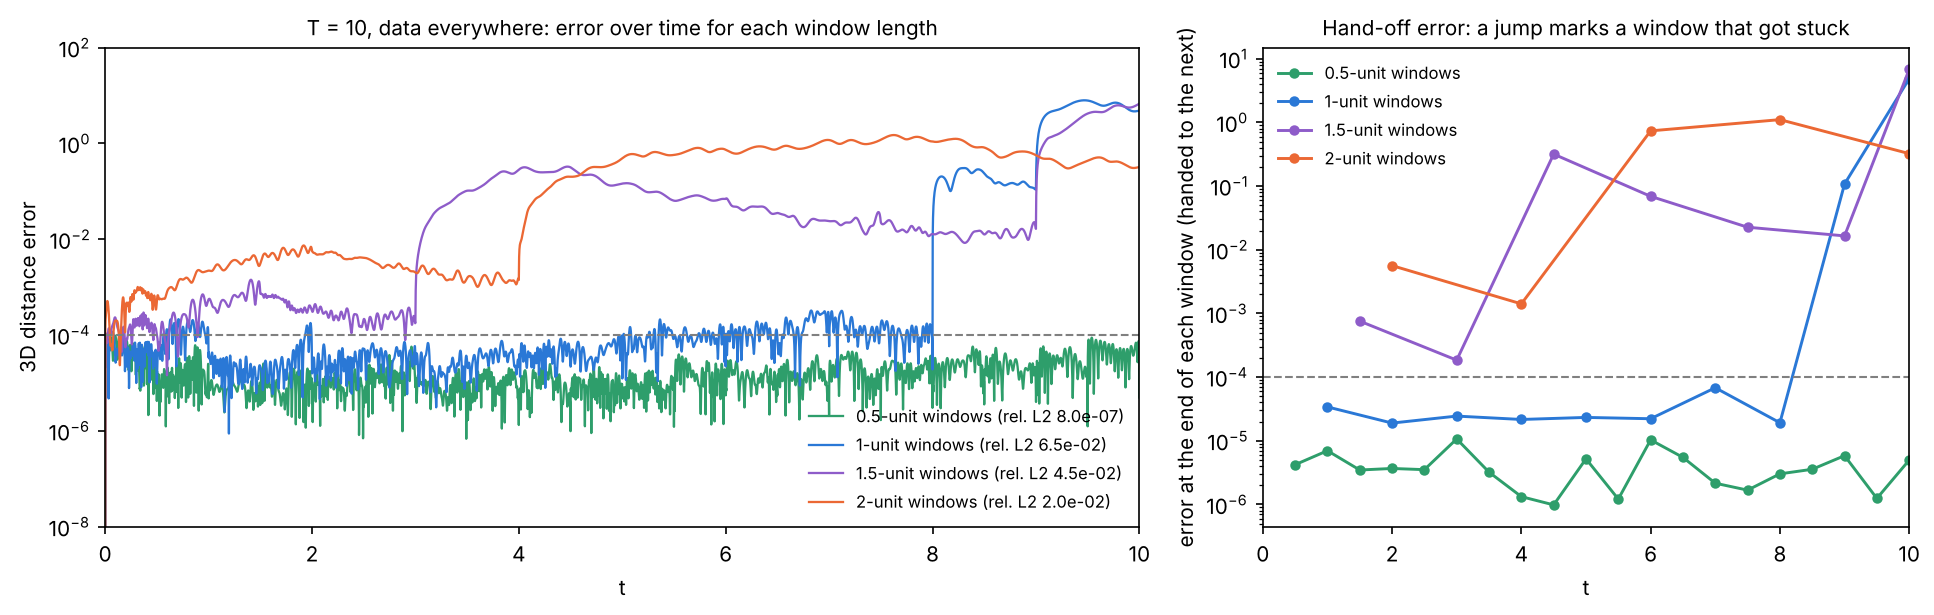
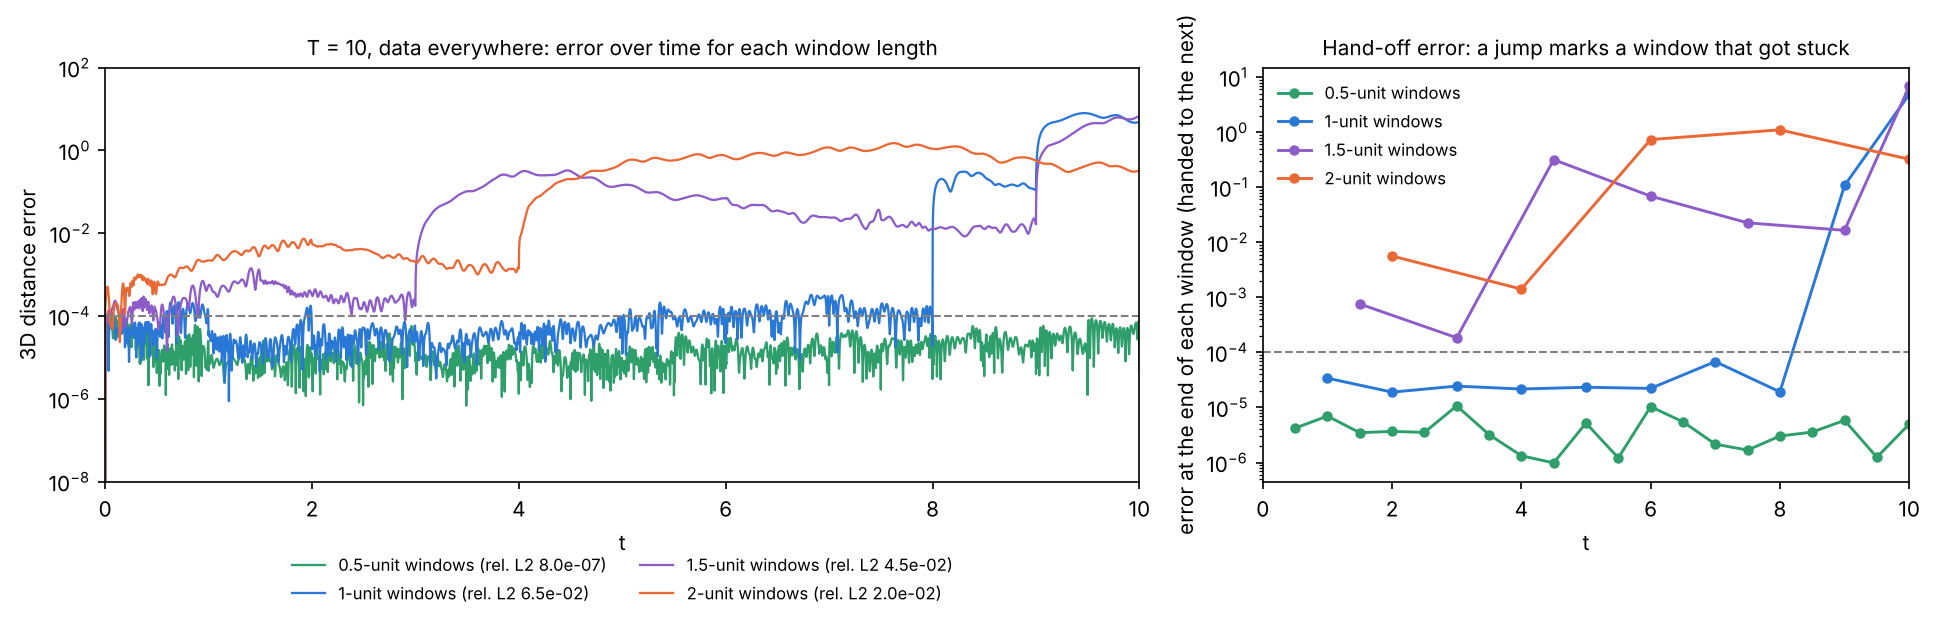
Add T = 20 window-length test (0.25 to 2-unit windows), graphs and write-up
Claude-Session: https://claude.ai/code/session_01RYXTDWCQ3fBuaHqY6rj5sE

diff --git a/scripts/horizon_visuals.py b/scripts/horizon_visuals.py
@@ -278,7 +278,7 @@ def plot_window_lengths(pred_dir, T=10, windows=(0.5, 1, 1.5, 2), save_dir=None,
                         save_name="window_lengths_T10.png", every=10):
     """Time-marching at one T with different window lengths: error over time,
     and the error handed from each window to the next."""
-    colors = {0.5: "#2e9e6b", 1: "#2a78d6", 1.5: "#8e5cc9", 2: "#eb6834"}
+    colors = {0.25: "#c23b8a", 0.5: "#2e9e6b", 1: "#2a78d6", 1.5: "#8e5cc9", 2: "#eb6834"}
     fig, (ax1, ax2) = plt.subplots(1, 2, figsize=(13, 4.2), gridspec_kw={"width_ratios": [1.6, 1]})
     for w in windows:
         f = os.path.join(pred_dir, f"pred_tm_T{T:g}_w{w:g}_s99.csv")
@@ -289,7 +289,9 @@ def plot_window_lengths(pred_dir, T=10, windows=(0.5, 1, 1.5, 2), save_dir=None,
         rel = np.linalg.norm(d.err_3d) / np.linalg.norm(ref)
         c = colors.get(w, None)
         dd = d.iloc[::every]
-        ax1.plot(dd.t, dd.err_3d + 1e-12, color=c, lw=1.1, label=f"{w:g}-unit windows (rel. L2 {rel:.1e})")
+        end = d.t.iloc[-1]
+        tag = "" if end >= T - 1e-9 else f", stopped at t = {end:g}"
+        ax1.plot(dd.t, dd.err_3d + 1e-12, color=c, lw=1.1, label=f"{w:g}-unit windows (rel. L2 {rel:.1e}{tag})")
         ends = d.groupby("window").tail(1)
         ax2.plot(ends.t, ends.err_3d, marker="o", ms=4, color=c, lw=1.4, label=f"{w:g}-unit windows")
     for ax in (ax1, ax2):
@@ -300,7 +302,7 @@ def plot_window_lengths(pred_dir, T=10, windows=(0.5, 1, 1.5, 2), save_dir=None,
     ax1.set_ylim(1e-8, 1e2)
     ax1.set_ylabel("3D distance error")
     ax1.set_title(f"T = {T:g}, data everywhere: error over time for each window length", fontsize=10)
-    ax1.legend(frameon=False, fontsize=8, loc="lower right")
+    ax1.legend(frameon=False, fontsize=8, loc="upper center", bbox_to_anchor=(0.5, -0.14), ncol=2)
     ax2.set_ylabel("error at the end of each window (handed to the next)")
     ax2.set_title("Hand-off error: a jump marks a window that got stuck", fontsize=10)
     ax2.legend(frameon=False, fontsize=8, loc="upper left")
@@ -328,8 +330,9 @@ def plot_window_states(pred_dir, T=10, windows=(0.5, 1, 1.5, 2), save_dir=None,
             ax = axes[i, j]
             ax.plot(d.t, d[f"{v}_pos"], color="black", lw=1.6, label="reference (RK4)")
             ax.plot(d.t, d[f"{v}_pinn"], color=colors[i], lw=1.2, ls="--", label="PINN")
-            for k in np.arange(w, T - 1e-9, w):
-                ax.axvline(k, color="gray", lw=0.5, ls=":")
+            if T / w <= 40:
+                for k in np.arange(w, T - 1e-9, w):
+                    ax.axvline(k, color="gray", lw=0.5, ls=":")
             if j == 0:
                 ax.set_ylabel(v)
             if i == 0:

diff --git a/results/horizon/graph_explanations.md b/results/horizon/graph_explanations.md
@@ -256,3 +256,41 @@ My explanation for why short windows help is an inference. Each window has less 
 - Two fixes would make the chain sturdier at any window length. Neither has been built yet:
   1. Check each window's final loss and retrain it with fresh weights if the loss stays high.
   2. Let the data correct the starting point (a soft starting condition) instead of fixing it exactly to the previous prediction.
+
+---
+
+## 6. T = 20: testing "the longer the time, the shorter the windows"
+
+![T = 20, error over time and hand-off error for each window length](plots/window_lengths_T20.png)
+
+![x, y, z over time at T = 20 for each window length](plots/window_states_T20.png)
+
+**The test**
+
+- This is the same setup as T = 10, with data at every point, but at T = 20 and with window lengths of 0.25, 0.5, 1, 1.5 and 2.
+- Each run stops early once a window ends more than 1 off the path (`--stop-above 1`), so some curves end before t = 20.
+- The "off the path from" column is the first time the 3D error goes above 0.1.
+
+| Window length | Windows trained | Off the path from | Run ended at |
+|---|---|---|---|
+| 0.25 | 18 of 80 | t = 4.3 | 4.5 (stopped) |
+| 0.5 | 40 of 40 | t = 18.0 | 20 |
+| 1 | 13 of 20 | t = 11.6 | 13 (stopped) |
+| 1.5 | 7 of 14 | t = 9.2 | 10.5 (stopped) |
+| 2 | 6 of 10 | t = 6.0 | 12 (stopped) |
+
+The relative L2 values on the graph are only over the part each run reached, so they can't be compared across runs. Use the "off the path from" column instead.
+
+**How to read it**
+
+- **From 2 units down to 0.5 the theory holds.** Shorter windows stay on the path longer (2 → 6, 1.5 → 9, 1 → 11.6, 0.5 → 18), and shorter windows also hand on smaller errors (right panel).
+- **It breaks at 0.25.** The 0.25-unit run was the most accurate while it lasted, with hand-off errors of about 1e-6. Then window 18, [4.25, 4.5], got stuck. That window is a calm loop, it was handed an error of only 4e-5, and it had data everywhere. Its data loss stayed at about 0.8 through all of Adam, and L-BFGS gave up after 7 steps. There seems to be a sweet spot rather than "shorter is always better". My guesses for why, untested:
+  1. There are 80 windows, so 80 chances to get stuck.
+  2. Each window rescales its outputs by the spread of x, y and z inside the window. In a very short window that spread is tiny (x varied by only about 0.4 in window 18), which makes the training problem badly scaled.
+- **T = 20 reaches the wing switches.** Up to t ≈ 13.5 the path only loops around the left wing. From then on it switches wings at t ≈ 13.55, 14.34, 17.24, 18.07 and 18.85.
+  - The 0.5-unit run got through the first three switches with errors up to about 8e-4.
+  - It got stuck in the window that holds the switch at 18.07.
+  - So longer horizons are harder partly because they reach this fast part of the attractor, not only because there are more windows.
+- **Where a run breaks varies from run to run.** At T = 10, 1-unit windows got stuck at t = 8. At T = 20, with the same settings and seed, they got past that point and broke at t = 11.6. The 1.5-unit run broke at t = 3.5 at T = 10 but at t = 9.2 here. So a single run per setting tells you roughly how reliable a window length is, not exactly where it fails. One possible reason is that the first runs here briefly shared the processor with another run, which makes training not exactly repeatable. That is a guess.
+
+**Answer:** "the longer the time, the shorter the windows" holds from 2 units down to 0.5, but it is not unlimited. 0.25-unit windows failed early, and even 0.5 broke at t = 18. Every failure was a single window whose training got stuck, so the more robust fix is to **detect a stuck window (high final loss) and retrain it** before moving on, rather than just shrinking the windows. That has not been built yet.
